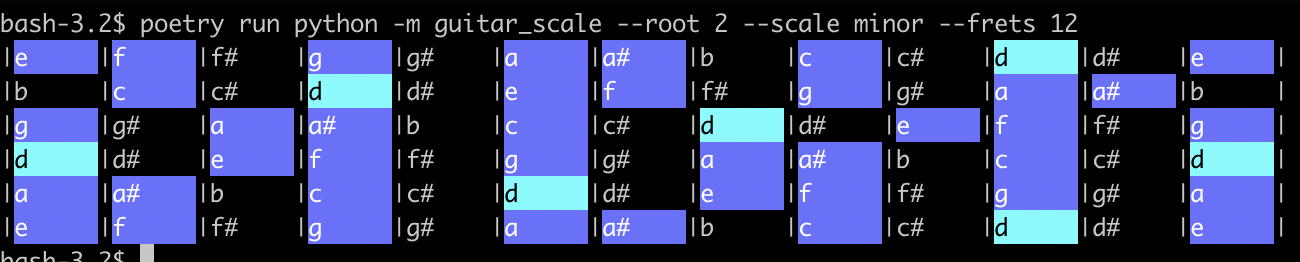
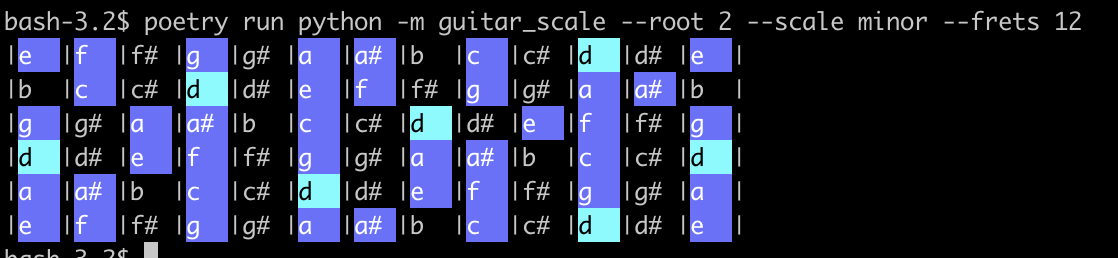
mv tab width

diff --git a/guitar_scale/__main__.py b/guitar_scale/__main__.py
@@ -95,7 +95,7 @@ notes = {
 }
 
 TUNING = [4, 11, 7, 2, 9, 4]  # E, B, G, D, A, E
-TAB_WIDTH = 6
+TAB_WIDTH = 3
 
 
 def print_guitar(root: int, xs: list[int], frets: int) -> None:
